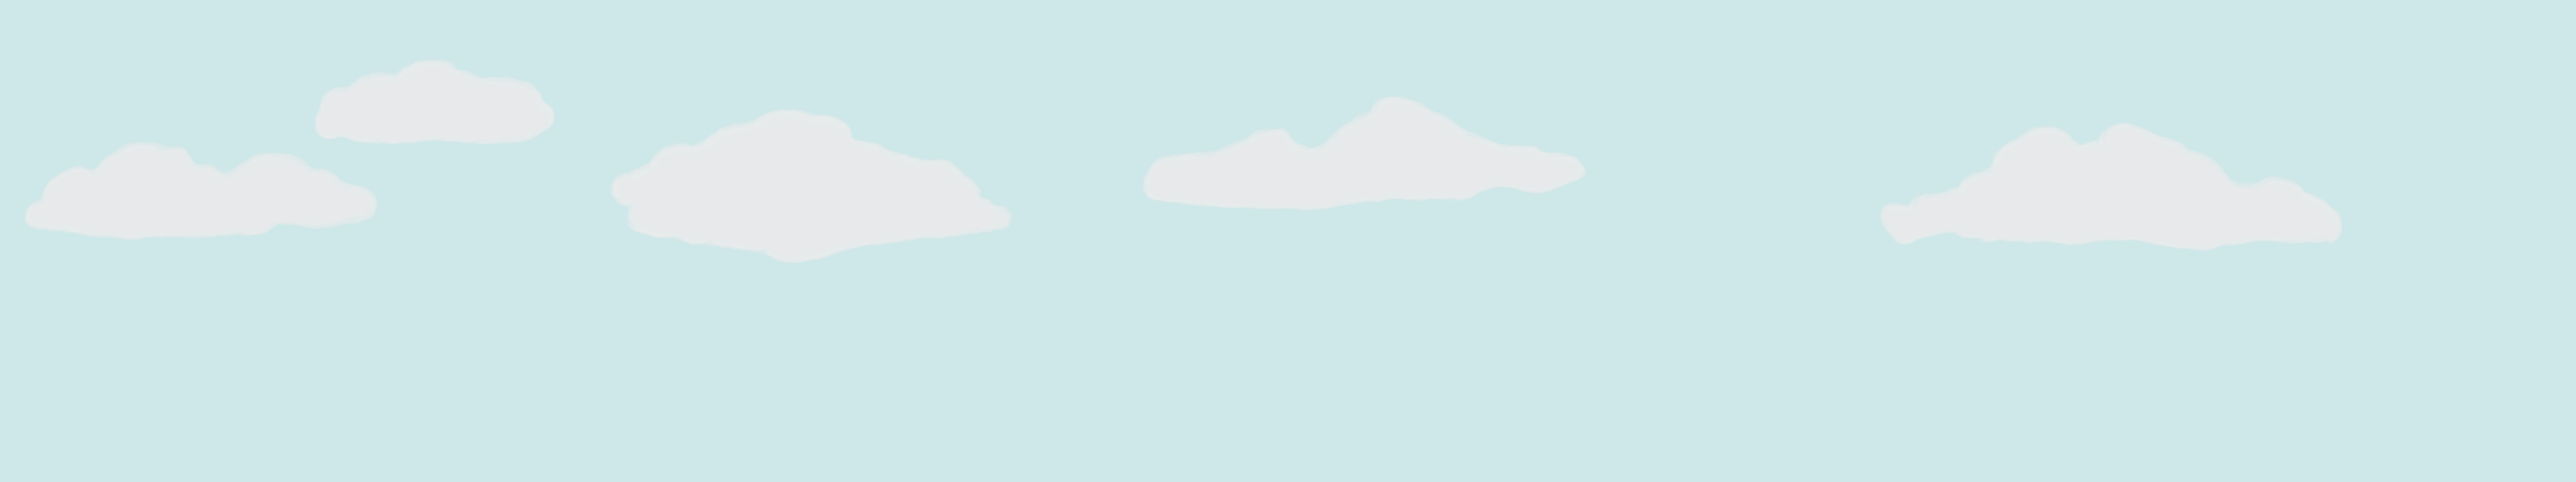
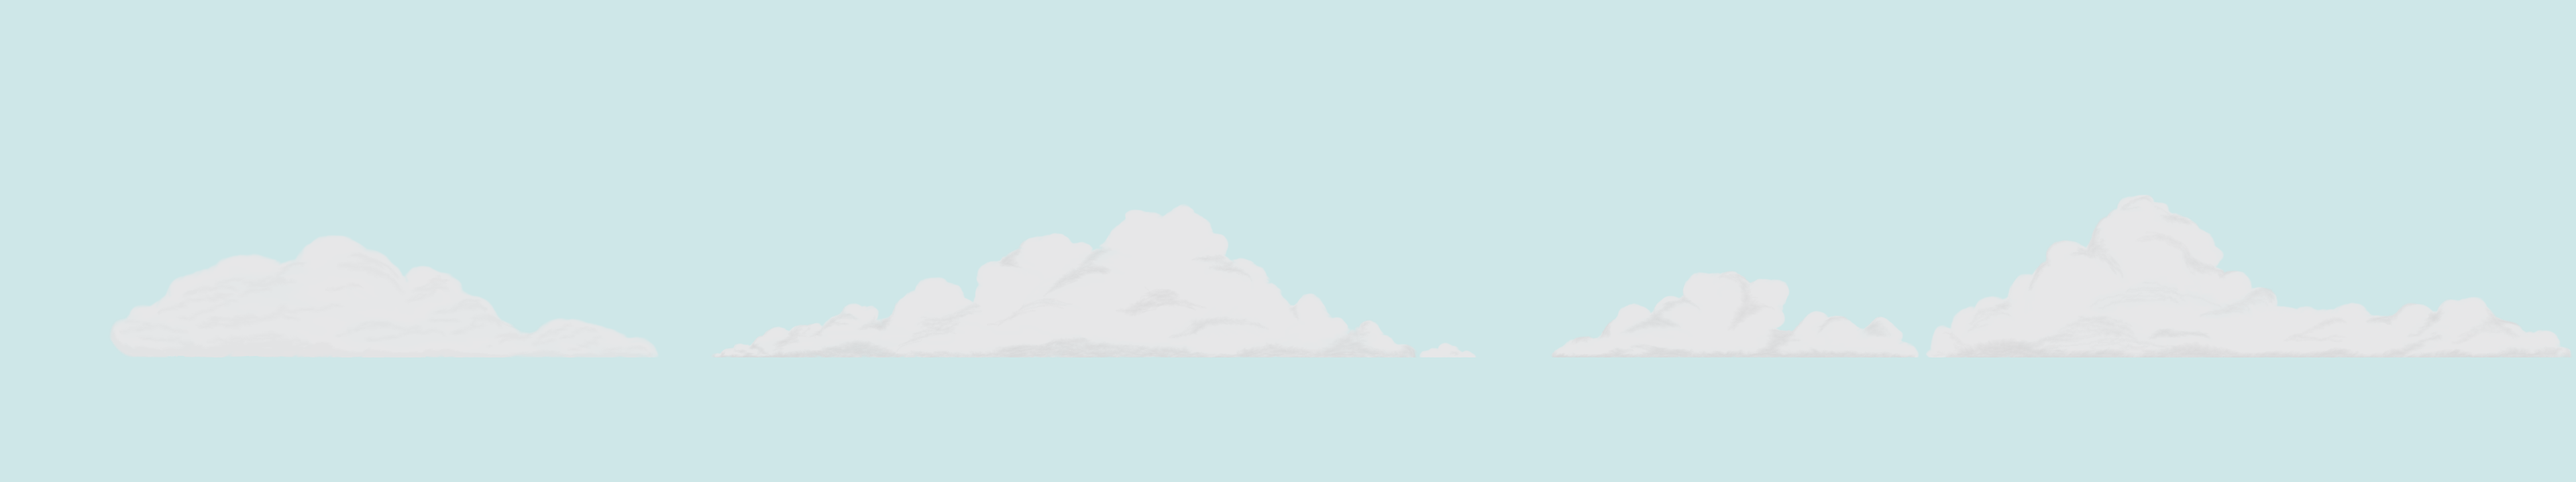
Add and update backgrounds in gameplay screen

diff --git a/core/src/com/kiwi/bubblekiwi/screens/GameplayScreen.java b/core/src/com/kiwi/bubblekiwi/screens/GameplayScreen.java
@@ -56,13 +56,15 @@ public class GameplayScreen extends AbstractScreen {
     }
 
     private void initializeBackground() {
-        ParallaxLayer farClouds = new ParallaxLayer(assets.get(Assets.farClouds), 0.004f);
+        ParallaxLayer farClouds = new ParallaxLayer(assets.get(Assets.farClouds), 0.002f);
+        ParallaxLayer middleClouds = new ParallaxLayer(assets.get(Assets.middleClouds), 0.004f);
         ParallaxLayer mountains = new ParallaxLayer(assets.get(Assets.mountains), 0.0f);
         ParallaxLayer nearClouds = new ParallaxLayer(assets.get(Assets.nearClouds), 0.01f);
         ParallaxLayer fog = new ParallaxLayer(assets.get(Assets.fog), -0.0025f);
         ParallaxLayer ground = new ParallaxLayer(assets.get(Assets.ground), 0.0f);
         background = new ParallaxBackground(new ParallaxLayer[]{
                 farClouds,
+                middleClouds,
                 mountains,
                 nearClouds,
                 fog,

diff --git a/core/src/com/kiwi/bubblekiwi/controllers/Assets.java b/core/src/com/kiwi/bubblekiwi/controllers/Assets.java
@@ -16,6 +16,8 @@ public class Assets implements Disposable {
 
     public static final AssetDescriptor<Texture> farClouds =
             new AssetDescriptor<Texture>("backgrounds/far_clouds.png", Texture.class);
+    public static final AssetDescriptor<Texture> middleClouds =
+            new AssetDescriptor<Texture>("backgrounds/middle_clouds.png", Texture.class);
     public static final AssetDescriptor<Texture> mountains =
             new AssetDescriptor<Texture>("backgrounds/mountains.png", Texture.class);
     public static final AssetDescriptor<Texture> nearClouds =
@@ -52,6 +54,7 @@ public class Assets implements Disposable {
 
     public void loadGameplayScreen() {
         manager.load(farClouds);
+        manager.load(middleClouds);
         manager.load(mountains);
         manager.load(nearClouds);
         manager.load(fog);
